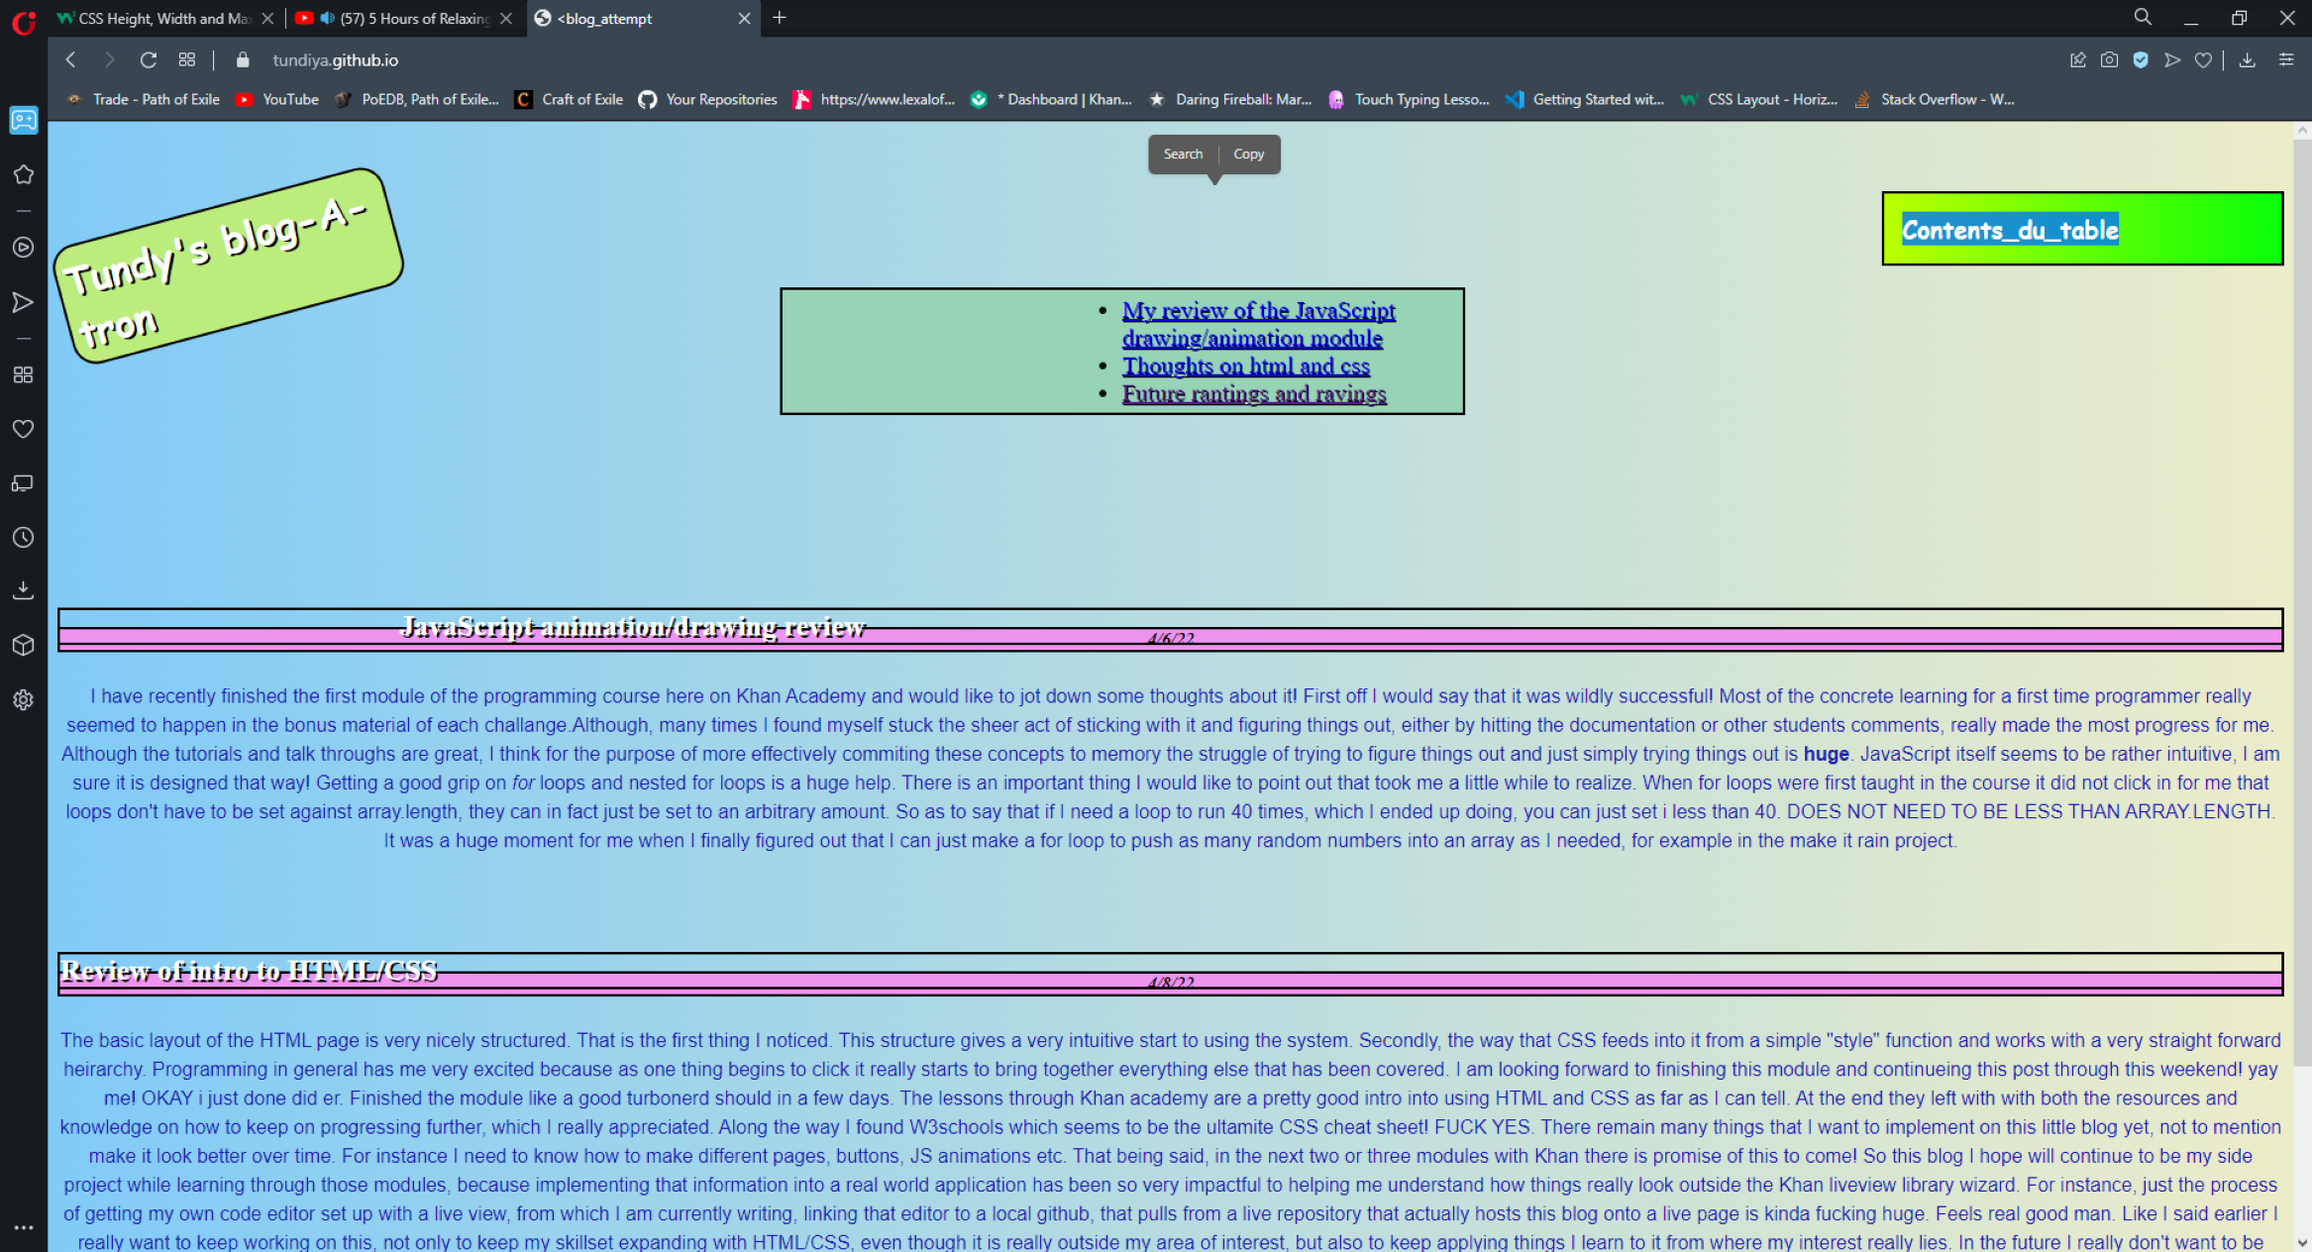
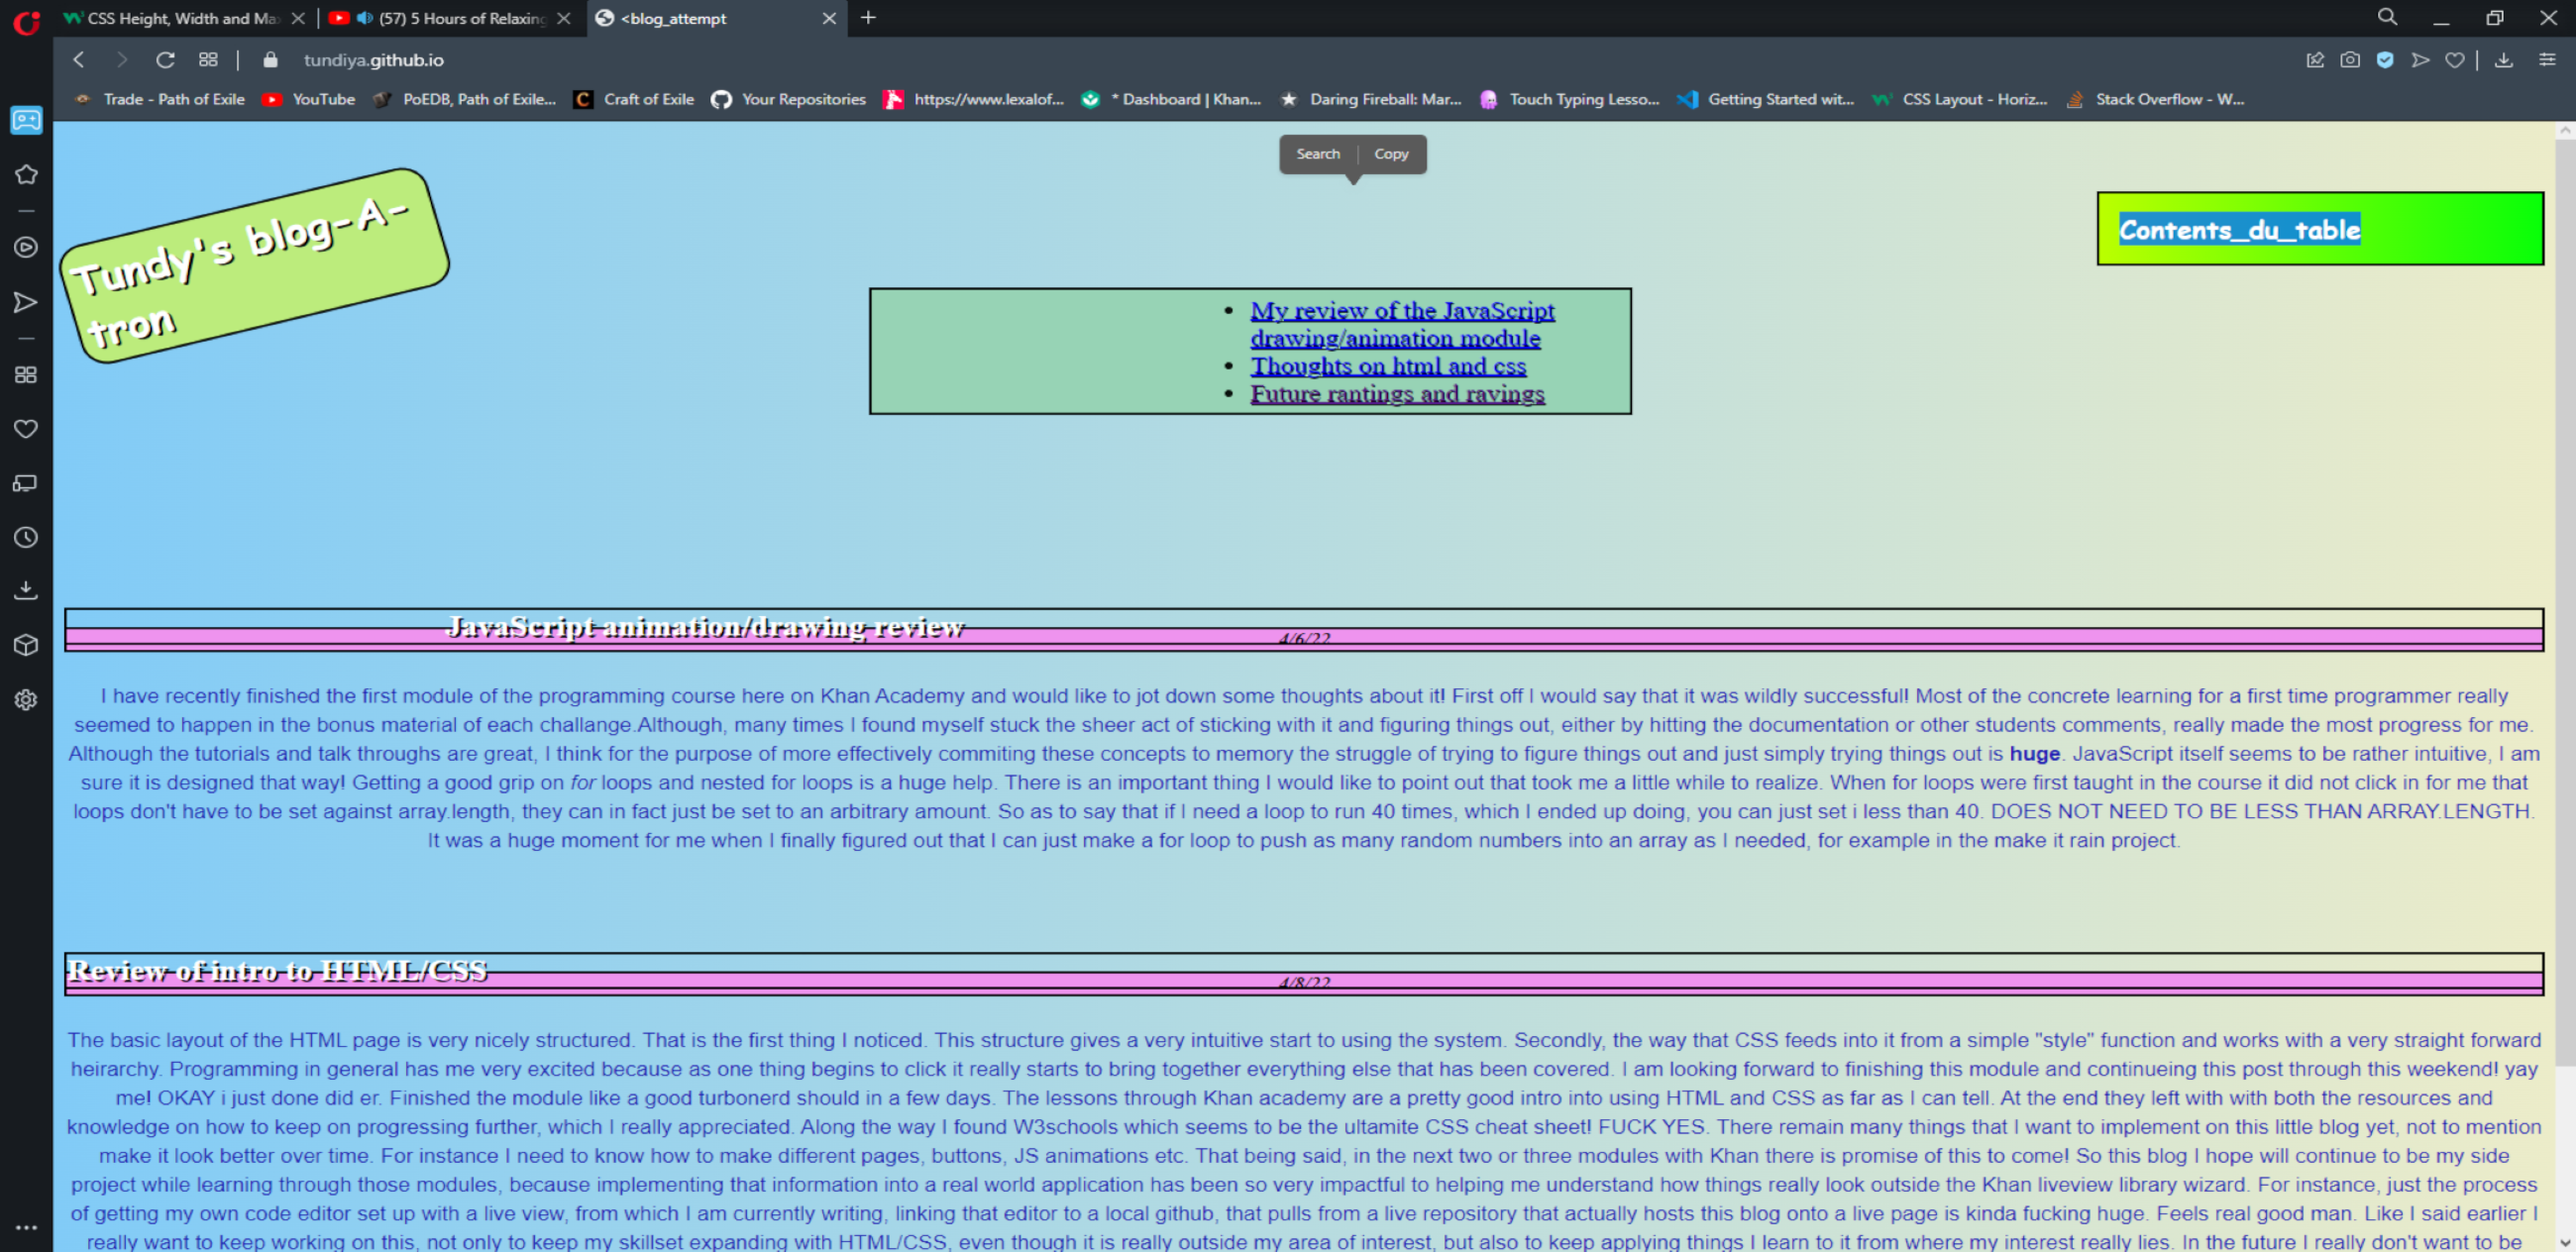
went down to single nav bar. added header animation(placeholder?). Alignment improvements in the header straps. changed button hover response. added box shadow to card elements on hover. changed the character limit on the card sample text to better work with large viewports. cleaned up scripts.js qu

diff --git a/index.html b/index.html
@@ -20,40 +20,16 @@
 </head>
 <body>
     <div class="container">       <!--My main page container-->                                                  
-        <div class="row g-0">
-            <div class="col-2 back_splash d-flex mt-3 justify-content-center align-items-center" id="title_box">
-                <h5 class="m-0">DerpBloggins</h5>
+        <div class="row g-0" id="top_row">
+            <div class="col-2 d-flex mt-3 justify-content-center align-items-center" id="title_box">
+                <h5 id="title_box_wrapper">DerpBloggins</h5>
             </div>
             <div class="col-10">
-                <nav class="navbar navbar-expand-md navbar-dark d-flex back_splash mt-3 px-2" id="top_nav">
-                    <a href="#main_top" class="navbar-brand" id="main_top"> <!--the main-top needs to be set so the go-to section links here-->
-                        
-                    </a>
-                                                            <!--toggle button for mobile nav-->
-                    <button class="navbar-toggler" type="button" data-bs-toggle="collapse" data-bs-target="#main-nav"
-                    aria-controls="main-nav" aria-expanded="false" aria-label="toggle navigation"> <!--aria-controls are primarily for screen readers-->
-                    <span class="navbar-toggler-icon">
+                <div class="back_splash mt-3 p-0" style="height: 60px;" id="top_nav">
+                    <canvas id="animator">
 
-                    </span>
-                    </button>
-                                                                <!--navbar links-->
-                    <div class="collapse navbar-collapse justify-content-end" id="main-nav">
-                        <ul class="navbar-nav">
-                            <li class="nav-item">
-                                <button class="nav-link btn" href="#posts">Posts</button>
-                            </li>
-                            <li class="nav-item">
-                                <button class="nav-link btn" href="#achievements" id="too_big_text">Achievements</button>
-                            </li>
-                            <li class="nav-item">
-                                <button class="nav-link btn" href="#toDoList">To do list</button>
-                            </li>
-                            <li class="nav-item">
-                                <button class="nav-link btn" href="#signUp">Sign up</button>
-                            </li>
-                        </ul>
-                    </div>             
-               </nav>
+                    </canvas>
+                </div>
             </div>
         </div>  <!--end of first nav row-->                                                 <!--     Main body / title-->
         <div class="row mt-3" style="height: 250px;"> <!--start of second row with 2 elements nested header element-->
@@ -70,7 +46,7 @@
                                 <li>Figma -> Code DerpBloggins</li>
                                 <li>Consistent updates</li>
                                 <li>Fully automated w/ backend</li>
-                                <li>Meta-Version Control cert.</li>
+                                <li>In-depth HTML/CSS cert.</li>
                             </ul>    
                         </div>
                     </div>
@@ -98,13 +74,13 @@
                                         </div>
                                         <div class="carousel-inner">
                                             <div class="carousel-item active">
-                                                <img src="./public/firstblog.PNG" class="d-block w-100 img-fluid" alt="img of first ever blog attempt" style="height: auto; width: auto;">
+                                                <img src="./public/firstblog.PNG" class="d-block w-100 img-fluid" alt="img of first ever blog attempt">
                                             </div>
                                             <div class="carousel-item">
-                                                <img src="./public/secondblog.png" class="d-block w-100 img-fluid" alt="image of second attempt at blog" style="height: auto; width: auto;">
+                                                <img src="./public/secondblog.png" class="d-block w-100 img-fluid" alt="image of second attempt at blog">
                                             </div>
                                             <div class="carousel-item">
-                                                <img src="./public/thirdblog.png" class="d-block w-100 img-fluid" alt="image of third blog attempt" style="height: auto; width: auto;">
+                                                <img src="./public/thirdblog.png" class="d-block w-100 img-fluid" alt="image of third blog attempt">
                                             </div>
                                         </div>
                                         <button class="carousel-control-prev" type="button" data-bs-target="#carouselOne" data-bs-slide="prev">
@@ -165,16 +141,20 @@
                                 <button type="button" class="btn" data-bs-toggle="modal" data-bs-target="#modal_for_posting" id="make_post">Post</button>
                             </li>
                             <li class="nav-item">
-                                <button class="nav-link btn" href="#https://github.com/?ef_id=_k_Cj0KCQiAqsitBhDlARIsAGMR1RhAOW23-oAg6NC4b1mWKCgUq4QEDO6EIm6hY3YPv6UZY17cjft6tN0aAuytEALw_wcB_k_&OCID=AIDcmmli8vlwie_SEM__k_Cj0KCQiAqsitBhDlARIsAGMR1RhAOW23-oAg6NC4b1mWKCgUq4QEDO6EIm6hY3YPv6UZY17cjft6tN0aAuytEALw_wcB_k_&gad_source=1&gclid=Cj0KCQiAqsitBhDlARIsAGMR1RhAOW23-oAg6NC4b1mWKCgUq4QEDO6EIm6hY3YPv6UZY17cjft6tN0aAuytEALw_wcB">Github</button>
+                                <a href="https://github.com/Tundiya" target="_blank">
+                                <button class="nav-link btn">Github</button>
+                                </a>
                             </li>
                             <li class="nav-item">
-                                <button class="nav-link btn" href="#https://www.linkedin.com/in/ilya-jouk-8801724b/">LinkedIn</button>
+                                <a href="https://www.linkedin.com/in/ilya-jouk-8801724b/" target="_blank">
+                                <button class="nav-link btn">LinkedIn</button>
+                                </a>
                             </li>
                             <li class="nav-item">
                                 <button class="nav-link btn" href="#mTableProj">mTableProj</button>
                             </li>
                             <li class="nav-item">
-                                <button class="nav-link btn" href="#Notes">Notes</button>
+                                <button class="nav-link btn" href="#signup">Sign up</button>
                             </li>
                         </ul>
                     </div>             
@@ -245,6 +225,7 @@
             </div>
         </section>    
     -->
+    <script src="animations.js"></script>
     <script src="https://cdn.jsdelivr.net/npm/bootstrap@5.3.2/dist/js/bootstrap.bundle.min.js" integrity="sha384-C6RzsynM9kWDrMNeT87bh95OGNyZPhcTNXj1NW7RuBCsyN/o0jlpcV8Qyq46cDfL" crossorigin="anonymous"></script>
     <script src="scripts.js"></script>
 </body>

diff --git a/animations.js b/animations.js
@@ -1,0 +1,99 @@
+//add mouse interaction to the animation still left
+
+
+let block;
+const trail = [];
+
+function init() {
+    const canvas = document.getElementById('animator');
+    const ctx = canvas.getContext("2d");
+
+    block = {
+        x: 0,
+        y: 0,
+        width: 8,
+        vwidth: 4,
+        height: 20,
+        vheight: 40,
+        dx: 2, //change in x
+        dy: 4, //change in y
+        edge: "right" //initial edge of movement
+    };
+
+    draw(ctx);
+}
+
+function draw (ctx) {
+    const canvas = ctx.canvas;
+    const aspectRatio = canvas.width / canvas.height;
+    //clear the canvas
+    ctx.clearRect(0, 0, canvas.width, canvas.height);
+
+
+
+    switch (block.edge) {
+        case "right":
+            block.x += block.dx;
+            if (block.x >= canvas.width - block.width / 2) {
+                block.edge = "down";
+                block.y += block.dy;
+                
+            }
+            break;
+        case "down":
+            block.y += block.dy;
+            if (block.y >= canvas.height - block.height /2) {
+                block.edge= "left";
+                block.x -= block.dx;
+            }
+            break;
+        case "left":
+            block.x -= block.dx
+            if (block.x <= block.width /2) {
+                block.edge = "up";
+                block.y -= block.dy;
+            }
+            break;
+        case "up":
+            block.y -= block.dy;
+            if (block.y <= block.height / 2) {
+                block.edge= "right";
+                block.x += block.dx;
+            }
+            break;
+    }
+
+
+    const blockHue = (Date.now() / 10) % 360; //modulate hue over literal time
+
+    // Drawing the soft edges
+
+    
+    //drawing a trail
+    for (const {x, y, color} of trail) {
+        ctx.fillStyle = color;
+        ctx.fillRect(x - block.width / 2, y - block.height / 2, block.width, block.height);
+    }
+
+
+    //storing trail block pos.
+    trail.push({ x: block.x, y: block.y, color: `hsl(${blockHue}, 100%, 50%)`});
+
+    //remove old trail keep only few frames of it
+    if (trail.length > 60) {
+        trail.shift();
+    }
+    
+    //update fill for block with current color
+    const blockColor = `hsl(${blockHue}, 100%, 50%)`
+    ctx.fillStyle = blockColor;
+    //draw the rectangle
+    ctx.fillRect(block.x - block.width / 2, block.y - block.height / 2, block.width, block.height);
+
+    //request next frame
+    window.requestAnimationFrame(() => draw(ctx));
+
+}
+ init();
+
+

diff --git a/scripts.js b/scripts.js
@@ -51,18 +51,14 @@ const newCardPost = {
 */
 
 class CardPost {
-    static postIdCounter = 0;
-    constructor(title, content, date){
+    constructor(title, content){
         this.title = title;
-        this.content = content;
-        this.date = date;
-        this.postId = ++CardPost.postIdCounter;
+        this.content = content;   
     }
     //there I am going to generate html for the card 
     generateCardHTML(){
         const cardContainer = document.createElement('div');
         cardContainer.classList.add("col");
-        cardContainer.setAttribute('data-post-id', this.postId);
         
         const cardBody = document.createElement('div');
         cardBody.classList.add('card');
@@ -91,7 +87,7 @@ class CardPost {
 
         const cardText = document.createElement('p');
         cardText.classList.add('card-text');
-        cardText.textContent = this.content.substring(0, 206) + '...';
+        cardText.textContent = this.content.substring(0, 195) + '...';
         
 
         const cardDate = document.createElement('div');
@@ -132,10 +128,8 @@ class CardPost {
     }
     saveToFile(){        //create object to represent the new card/post
          const newCardPost = {
-            postId: this.postId,
             title: this.title,
-            content: this.content,
-            date: this.date
+            content: this.content
         };
 
     fetch('http://127.0.0.1:3000/', {
@@ -192,7 +186,7 @@ function generatePostHTML(postId, title, content, date) {
 
     const cardText = document.createElement('p');
     cardText.classList.add('card-text');
-    cardText.textContent = content.substring(0, 206) + '...';
+    cardText.textContent = content.substring(0, 195) + '...';
 
     const cardDate = document.createElement('div');
     cardDate.classList.add('card-footer');
@@ -227,7 +221,7 @@ function generatePostHTML(postId, title, content, date) {
             const selectedPost = posts.find(post => post.postId === parseInt(postId));
             console.log(selectedPost);
             //pass content into modal
-            openModal(selectedPost.title, selectedPost.content);
+            openModal(selectedPost.title, selectedPost.content, selectedPost.createdAt);
         } catch (error) {
             console.error('Error fetching full post content', error);
         }

diff --git a/styles.css b/styles.css
@@ -1,3 +1,8 @@
+@font-face {
+    font-family: 'neuropol';
+    src: url('./public/neuropol.otf') format('opentype');
+}
+
 body {
     background: radial-gradient(closest-side, #8C805F, #22282c, #1f2020);
     background-attachment: fixed;
@@ -13,6 +18,9 @@ body {
 }
 .card-body {
     padding: 0;
+}
+.card:hover {
+    box-shadow: 5px 5px 5px 5px rgba(0, 0, 0, 0.397);
 }
 .card-content-css {
     text-align: center;
@@ -32,8 +40,9 @@ ol {
 #carouselOne {
     border-style: solid;
     border-width: thin;
-    border-color:#3F2909
+    border-color:#3F2909;
 }
+
 #profile_pic {
     border-style: solid;
     border-width: thin;
@@ -63,15 +72,30 @@ ol {
     padding: 0;
 }
 
+.btn:hover {
+    background-color: #182628;
+    border-style: solid;
+    border-width: 2px;
+    border-color: #6f5631;
+}
+
 @media (max-width: 768px) {
     .btn{
         margin-left: 0;
     }
 }
+a {
+    text-decoration: none;
+    color: inherit;
+}
+a:hover, a:visited {
+    text-decoration: none;
+}
 
 #top_nav {
     border-bottom-right-radius: 8px;
     border-top-right-radius: 8px;
+    margin-left: -20px;
 }
 #title_box {
     border-top-left-radius: 0.5rem;
@@ -79,6 +103,14 @@ ol {
     background-color: #2B4649;
     border-right-width: 0px;
     padding: 0;
+    border-style: solid;
+    border-width: 2px;
+    border-right-width: 0px;
+    border-color: #3F2909;
+}
+#title_box_wrapper {
+    margin-left: -20px;
+    font-family: 'neuropol';
 }
 #too_big_text {
     font-size: 15px;
@@ -126,3 +158,10 @@ ol {
     background-color: #2B4649;
 }
 
+
+#animator {
+    height: 100%;
+    width: 100%;
+    padding: 0;
+    z-index: 1;
+}
